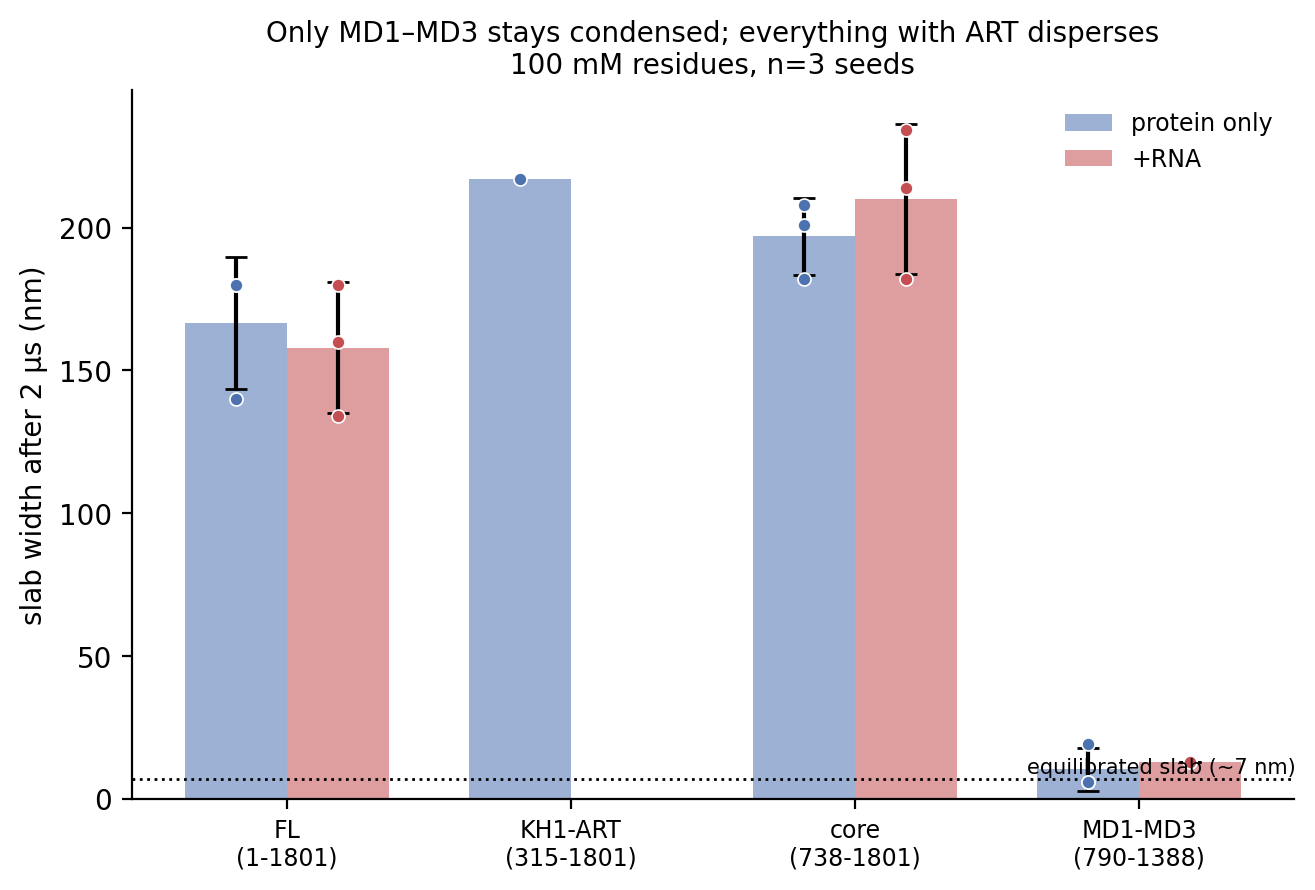
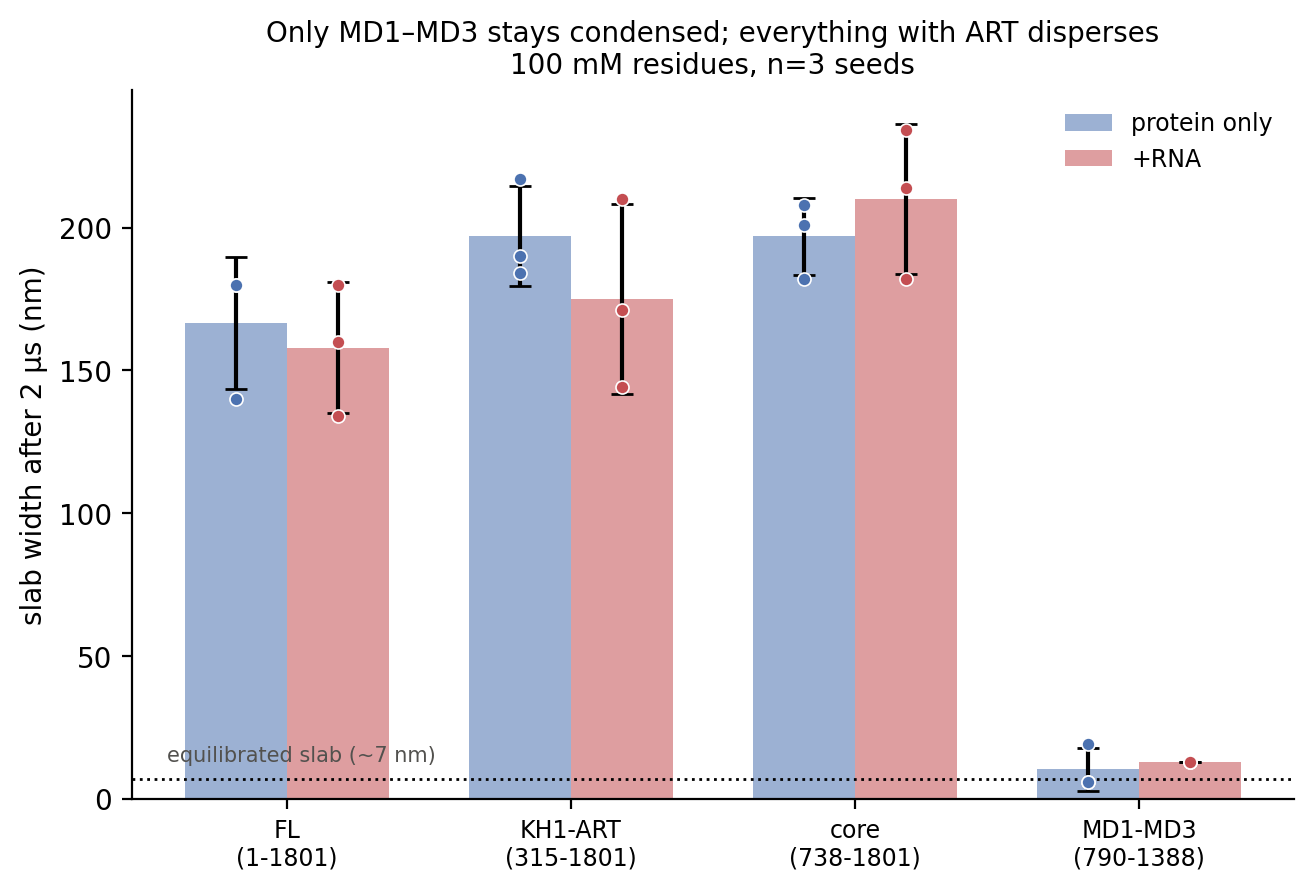
PARP14 slab run 2: complete kh1_art_full — all 24 runs analysed, n=3 everywhere
The five remaining kh1_art_full c_sat jobs finished (largest system in the
panel). kh1_art_full disperses in both arms: 197 +/- 18 nm protein-only,
175 +/- 33 nm with RNA.

The null RNA result is now clean across all four constructs, with every
difference under one pooled SD and no shared sign:

    fl             -9 nm   0.38 sd
    kh1_art_full  -22 nm   0.83 sd
    core_full_go  +13 nm   0.62 sd
    md_full        +3 nm   0.50 sd

Drops the n=1 caveat from RESULTS.md, regenerates the figures, and moves the
"equilibrated slab" annotation off the MD1-MD3 bars.

diff --git a/examples/PARP14_MDP/slab/figure_rna_panel.py b/examples/PARP14_MDP/slab/figure_rna_panel.py
@@ -54,7 +54,7 @@ def fig1_condensation(cond):
         ax.bar(xs, ys, w, yerr=es, capsize=4, color=ARMC[arm], alpha=.55,
                label=('+RNA' if arm == 'rna' else 'protein only'))
     ax.axhline(7, color='k', ls=':', lw=1)
-    ax.text(len(ORDER) - .45, 9, 'equilibrated slab (~7 nm)', fontsize=7.5, ha='right')
+    ax.text(-0.42, 13, 'equilibrated slab (~7 nm)', fontsize=7.5, ha='left', color='#52514e')
     ax.set_xticks(range(len(ORDER)))
     ax.set_xticklabels([LABEL[c] for c in ORDER], fontsize=8.5)
     ax.set_ylabel('slab width after 2 µs (nm)')

diff --git a/examples/PARP14_MDP/slab/rnapanel/RESULTS.md b/examples/PARP14_MDP/slab/rnapanel/RESULTS.md
@@ -17,18 +17,25 @@ Every system is compacted to a ~6–7 nm slab before production, then released.
 | construct | FL span | protein only | +RNA | phase |
 |---|---|---|---|---|
 | `fl` | 1–1801 | 167 ± 23 nm | 158 ± 23 nm | dispersed |
-| `kh1_art_full` | 315–1801 | 217 nm | — | dispersed |
+| `kh1_art_full` | 315–1801 | 197 ± 18 nm | 175 ± 33 nm | dispersed |
 | `core_full_go` | 738–1801 | 197 ± 13 nm | 210 ± 26 nm | dispersed |
 | **`md_full`** | **790–1388** | **10 ± 8 nm** | **13 ± 0 nm** | **condensed** |
 
-(final slab width after 2 µs; n=3 except `kh1_art_full`, see *Caveats*)
+(final slab width after 2 µs, n=3 per cell; **all 24 runs analysed**)
 
 `md_full` holds its slab (6, 6, 19 nm protein-only; 13, 13, 13 nm +RNA) with
 **c_sat = 0.0 mM — below detection**, i.e. essentially all protein in the dense
 phase. Every construct containing ART disperses to 130–230 nm.
 
-**RNA does not change whether anything condenses.** `fl` −9 nm and
-`core_full_go` +13 nm, both < 1 pooled SD and in *opposite* directions.
+**RNA does not change whether anything condenses.** Every ±RNA difference is
+under one pooled SD, and they do not share a sign:
+
+| construct | Δ slab width with RNA | pooled SD |
+|---|---|---|
+| `fl` | −9 nm | 0.38 SD |
+| `kh1_art_full` | −22 nm | 0.83 SD |
+| `core_full_go` | +13 nm | 0.62 SD |
+| `md_full` | +3 nm | 0.50 SD |
 
 > **Run 1's "RNA retards dispersal 1.67×, only when ART is present" does not
 > reproduce.** That was one unreplicated cell, at uncontrolled concentration,
@@ -148,11 +155,6 @@ as a **competitor for MD1**, not as a general crosslinker.
 
 ## Caveats
 
-* **`kh1_art_full` c_sat is complete for 1 of 6 runs.** The other five
-  `analyze_slab.py` jobs were still running at the time of writing (largest
-  system in the panel). Its *dispersed* assignment is nonetheless supported by
-  that run (217 nm) and by the frozen-contact signature in all six. The slab
-  widths in Section 1 for this construct are therefore n=1.
 * **Dispersal is measured as final slab width**, not a rate. Run 1's 1.67×
   claim was about a rate; a strictly like-for-like test would compare
   time-resolved dispersal profiles.
